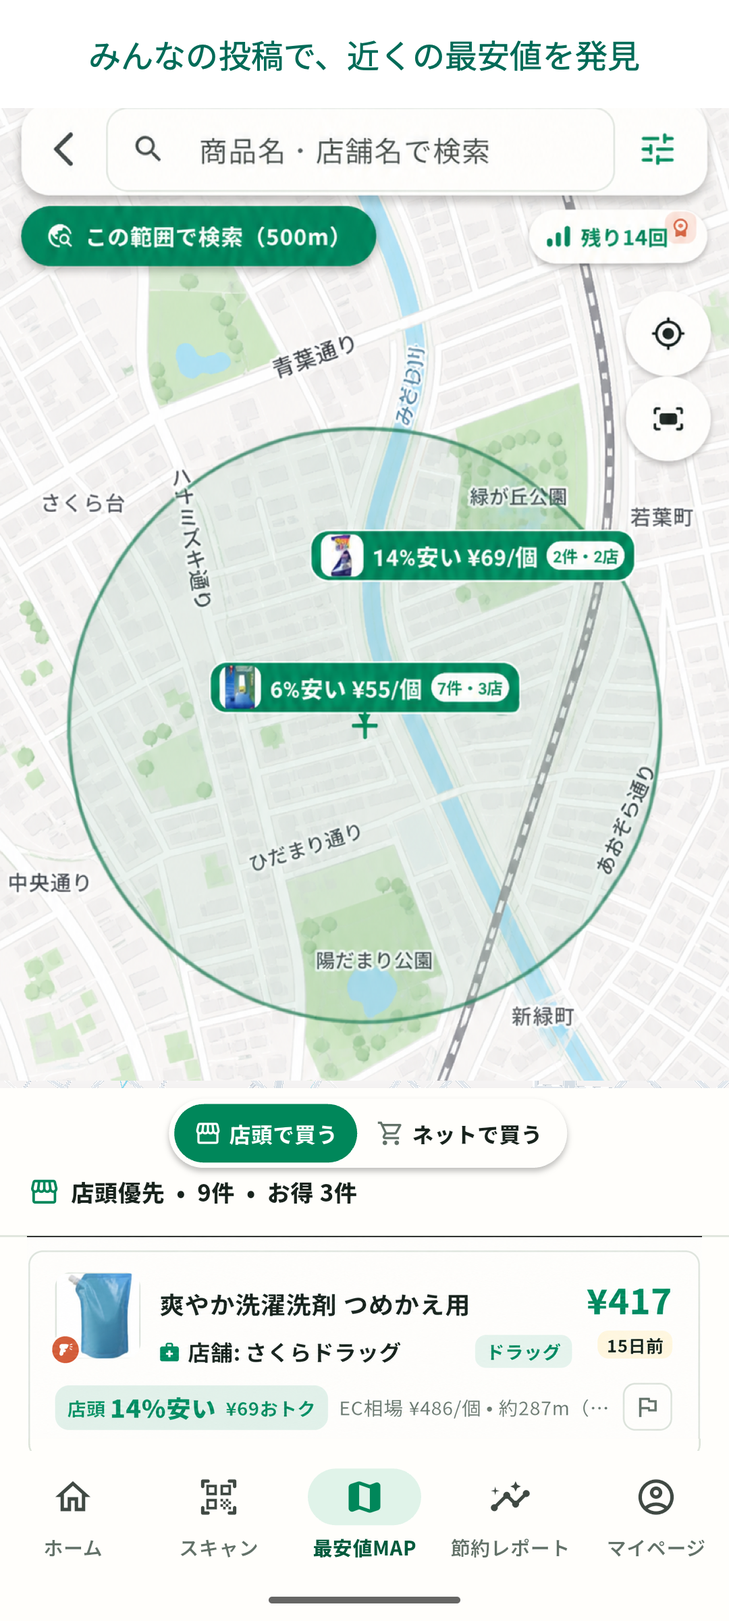
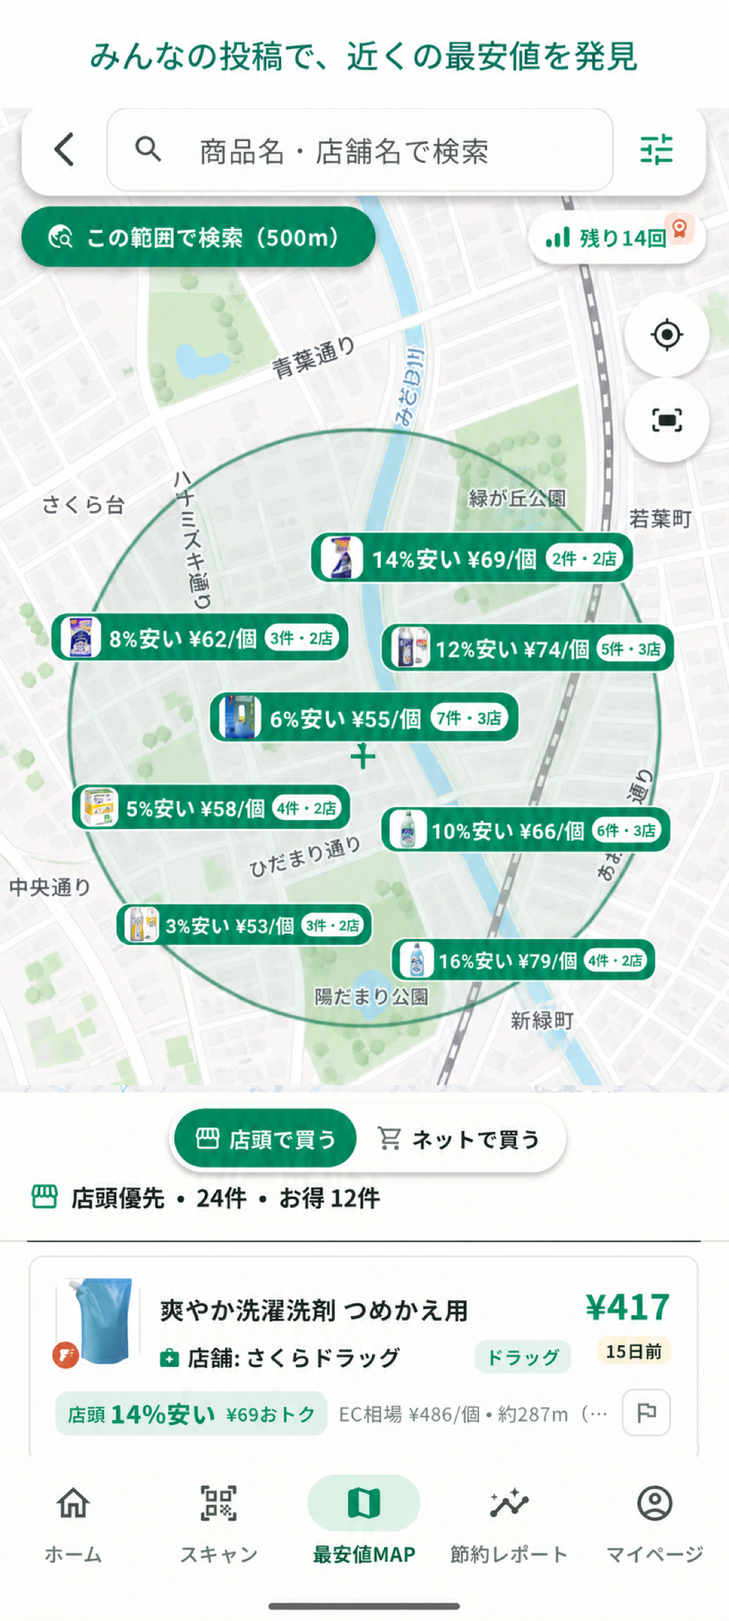
content(site): 文言トーンを統一しトップページに家族共有セクションを追加 [Claude]
直前のコミット248834bでindex.mdの本文だけを書き換えたため、同じ文言が
footer・front matter・_config.ymlに旧バージョンで残っていた。編集方針
(具体的ベネフィット/最安値・節約キーワードの明示/体言止めの排除/平易な
言葉)をサイト全体へ展開する。

取りこぼしの解消:
- footerの旧タグライン「その値段、買う前に見比べる。」を全ページで差し替え
- journeyのfigcaptionがstep01のdata-captionと不一致だった点を修正
- step05のdata-captionが旧トーンのまま残っていた点を修正
- 404のfront matter leadが本文と二重表示になっていた点を解消
- 見出しの助詞の誤り(積み重ねて)を修正

用語統一: EC→ネット、底値→最安値、読み取る→撮る・スキャン。
ECサイト(免責・仕様説明)とEC比較に適さない商品は従来どおり据え置き。
免責文言は用語置換のみで内容・強度は変更していない。

「完全匿名」「完全に匿名」はprivacy.mdの記述(公開価格レコードにユーザー
IDを含めない/位置は約100m単位に丸める)に対して強すぎるため、「価格だけを
共有、投稿者は非公開」「共有されるのは価格だけ」へ修正。

家族共有セクションは節約レポートと最安値MAPの間に新設し、共有範囲が
自分→家族→みんなと広がる構成にした。既存のsplit-featureグリッドを再利用し
CSSは2行追加のみ、JSは変更なし。

差し替わったfamily-sharing.pngが1080x2400になっていたため、index.mdと
features.mdの寸法宣言を更新。新しい画像に「家族でシェアしてみんなでお得」が
焼き込まれており見出しと重複するため、セクション見出しは「家族の節約を
ひとつにまとめる」とした。

法務文書(privacy/terms/tokushoho)の本文は対象外。
未追跡のfamily-sharing-raw.pngはどのページからも参照していないため
コミットに含めていない。

diff --git a/assets/css/main.css b/assets/css/main.css
@@ -1849,6 +1849,8 @@ em { color: var(--color-primary); font-style: normal; }
 .savings-feature__line i:nth-child(1) { left: 0; }.savings-feature__line i:nth-child(2) { left: 25%; top: 24px; }.savings-feature__line i:nth-child(3) { left: 49%; top: 34px; }.savings-feature__line i:nth-child(4) { right: 0; top: 5px; background: var(--color-secondary); }
 .split-feature--community .map-art { width: min(100%, 350px); justify-self: center; border-width: 8px; border-radius: 30px; }
 .split-feature--community .map-art img { height: auto; }
+.split-feature--family .family-art { margin: 0; overflow: hidden; width: min(100%, 350px); justify-self: center; border: 8px solid rgba(255, 255, 255, .72); border-radius: 30px; background: #eaf5ef; box-shadow: var(--shadow-lg); }
+.split-feature--family .family-art img { width: 100%; height: auto; }
 .trust-section { background: #f6faf7; }
 .trust-section .section-heading h2 { font-size: clamp(2.2rem, 4vw, 3.5rem); letter-spacing: -.05em; }
 .release-section { background: linear-gradient(135deg, var(--color-primary-dark), var(--color-primary)); }

diff --git a/_includes/footer.html b/_includes/footer.html
@@ -5,8 +5,8 @@
         <span class="brand__mark" aria-hidden="true"><span>ト</span><i></i></span>
         <span class="brand__name">トクミル</span>
       </a>
-      <p class="site-footer__copy">その値段、買う前に見比べる。</p>
-      <a class="footer-origin-link" href="{{ "/#journey" | relative_url }}">撮る・比べる・記録する <span aria-hidden="true">↗</span></a>
+      <p class="site-footer__copy">本当の最安値を簡単比較</p>
+      <a class="footer-origin-link" href="{{ "/#journey" | relative_url }}">撮る・比べる・節約する <span aria-hidden="true">↗</span></a>
     </div>
     <nav class="footer-nav" aria-label="フッターナビゲーション">
       <div>

diff --git a/_includes/header.html b/_includes/header.html
@@ -9,7 +9,7 @@
       <a href="{{ "/features.html" | relative_url }}">できること</a>
       <a href="{{ "/support.html" | relative_url }}">サポート</a>
       <a href="{{ "/legal.html" | relative_url }}">法的情報</a>
-      <a class="desktop-nav__cta" href="{{ "/#journey" | relative_url }}">使い方を見る <span aria-hidden="true">↗</span></a>
+      <a class="desktop-nav__cta" href="{{ "/#journey" | relative_url }}">使い方を体験する <span aria-hidden="true">↗</span></a>
     </nav>
 
     <details class="mobile-nav">

diff --git a/_includes/head.html b/_includes/head.html
@@ -35,7 +35,7 @@
   "@type": "SoftwareApplication",
   "name": "トクミル",
   "applicationCategory": "ShoppingApplication",
-  "operatingSystem": "Android",
+  "operatingSystem": "Android, iOS",
   "description": {{ site.description | jsonify }},
   "url": {{ site.url | append: site.baseurl | append: "/" | jsonify }}
 }

diff --git a/404.html b/404.html
@@ -2,7 +2,6 @@
 layout: page
 title: ページが見つかりません
 eyebrow: 404
-lead: URLが変更されたか、ページが削除された可能性があります。
 permalink: /404.html
 ---
 

diff --git a/index.md b/index.md
@@ -1,6 +1,6 @@
 ---
 title: トクミル
-description: バーコードと値札からEC・店頭価格を比べ、買い物の選択と節約の積み重ねを助ける価格比較アプリ「トクミル」
+description: 商品と値札を撮るだけで、店頭とネットの最安値を簡単比較。節約の成果を記録できる節約アプリ「トクミル」
 permalink: /
 body_class: home
 image: /assets/images/store/feature-graphic/tokumiru-feature-graphic.png
@@ -13,10 +13,10 @@ image: /assets/images/store/feature-graphic/tokumiru-feature-graphic.png
         <img src="{{ "/assets/images/store/app-icon/tokumiru-app-icon.png" | relative_url }}" width="1254" height="1254" alt="" fetchpriority="high" decoding="async">
         <span><strong>トクミル</strong></span>
       </div>
-      <p class="eyebrow">Compare · Choose · Remember</p>
+      <p class="eyebrow">Scan · Compare · Save</p>
       <h1 id="hero-title">みんなで得する<br>節約アプリ</h1>
       <p class="hero__tagline">本当の最安値を簡単比較</p>
-      <p class="hero__description">商品と値札を読み取り、店頭とネットの最安値を簡単比較。節約の成果をわかりやすく記録。</p>
+      <p class="hero__description">商品と値札を撮るだけで、店頭とネットの最安値を簡単比較。節約の成果をわかりやすく記録。</p>
       <div class="hero__actions">
         <a class="button" href="#journey">使い方を体験する <span aria-hidden="true">↓</span></a>
         <a class="button button--secondary" href="{{ "/features.html" | relative_url }}">できることを見る <span aria-hidden="true">↗</span></a>
@@ -45,7 +45,7 @@ image: /assets/images/store/feature-graphic/tokumiru-feature-graphic.png
   <div class="content-shell">
     <header class="section-heading section-heading--center reveal">
       <p class="eyebrow">Better together</p>
-      <h2>毎日の節約の積み重ねて<br><em>節約の成果</em>を実感できる。</h2>
+      <h2>毎日の節約を積み重ねて<br><em>節約の成果</em>を実感できる。</h2>
       <p>トクミルは日々の買い物をもっとお得にするための節約アプリです。自分の節約が、みんなのお得にも役立ちます。</p>
     </header>
     <div class="community-loop community-loop--modern">
@@ -60,7 +60,7 @@ image: /assets/images/store/feature-graphic/tokumiru-feature-graphic.png
   <div class="content-shell">
     <header class="section-heading journey-heading reveal">
       <div><p class="eyebrow">A little less guesswork</p><h2>いつもの買い物で<br><em>比べて得する</em></h2></div>
-      <p>スクロールに合わせて画面が切り替わります。読み取りから記録まで、5つの画面で紹介します。</p>
+      <p>スクロールに合わせて画面が切り替わります。撮影から記録まで、5つの画面で紹介します。</p>
     </header>
     <div class="journey-layout">
       <div class="journey-stage" data-journey-stage>
@@ -68,7 +68,7 @@ image: /assets/images/store/feature-graphic/tokumiru-feature-graphic.png
         <figure class="journey-stage__screen">
           <div class="journey-stage__screen-glow" aria-hidden="true"></div>
           <img data-journey-stage-image src="{{ "/assets/images/store/screenshots/home.png" | relative_url }}" width="1080" height="2400" loading="eager" decoding="async" alt="トクミルのホーム画面">
-          <figcaption data-journey-stage-caption>ホームから、いつもの買い物を始める</figcaption>
+          <figcaption data-journey-stage-caption>店頭で購入したい商品を撮影</figcaption>
         </figure>
         <div class="journey-stage__footer"><span data-journey-stage-count>01 / 05</span><span>スクロールで切り替わります</span></div>
       </div>
@@ -78,18 +78,18 @@ image: /assets/images/store/feature-graphic/tokumiru-feature-graphic.png
           <img src="{{ "/assets/images/store/screenshots/home.png" | relative_url }}" width="1080" height="2400" loading="lazy" alt="トクミルのホーム画面">
         </article>
         <article class="journey-step reveal" data-journey-step data-image="{{ "/assets/images/store/screenshots/price-comparison.png" | relative_url }}" data-alt="トクミルの価格比較画面" data-caption="店頭価格とネット価格を比べる" data-count="02 / 05">
-          <span class="journey-step__number">02</span><div><p class="journey-step__label">COMPARE</p><h3>店頭価格とネット価格を比べる</h3><p>総額だけでなく、送料・内容量・個数まで確認。同じ条件に揃えてから、どちらが安いかを判断できます。</p></div>
+          <span class="journey-step__number">02</span><div><p class="journey-step__label">COMPARE</p><h3>店頭価格とネット価格を比べる</h3><p>送料・内容量・個数まで含めて、同じ条件に揃えて比較。本当に安いのはどちらかがわかります。</p></div>
           <img src="{{ "/assets/images/store/screenshots/price-comparison.png" | relative_url }}" width="1080" height="2400" loading="lazy" alt="トクミルの価格比較画面">
         </article>
         <article class="journey-step reveal" data-journey-step data-image="{{ "/assets/images/store/screenshots/buying-time-note.png" | relative_url }}" data-alt="トクミルの買い時ノート画面" data-caption="自分の買い時を見つける" data-count="03 / 05">
-          <span class="journey-step__number">03</span><div><p class="journey-step__label">REMEMBER</p><h3>自分の買い時を見つける</h3><p>いつもの商品を、前にいくらで買ったか。買い時ノートが、自分だけの底値の記録になります。</p></div>
+          <span class="journey-step__number">03</span><div><p class="journey-step__label">REMEMBER</p><h3>自分の買い時を見つける</h3><p>いつもの商品を前にいくらで買ったか、買い時ノートに記録。自分だけの最安値がひと目でわかります。</p></div>
           <img src="{{ "/assets/images/store/screenshots/buying-time-note.png" | relative_url }}" width="1080" height="2400" loading="lazy" alt="トクミルの買い時ノート画面">
         </article>
         <article class="journey-step reveal" data-journey-step data-image="{{ "/assets/images/store/screenshots/savings-report.png" | relative_url }}" data-alt="トクミルの節約レポート画面" data-caption="節約の成果を振り返る" data-count="04 / 05">
           <span class="journey-step__number">04</span><div><p class="journey-step__label">REVIEW</p><h3>節約の成果を振り返る</h3><p>日々の節約の積み重ねを、月ごと・年ごとの節約レポートで確認。節約の結果が金額でわかる。</p></div>
           <img src="{{ "/assets/images/store/screenshots/savings-report.png" | relative_url }}" width="1080" height="2400" loading="lazy" alt="トクミルの節約レポート画面">
         </article>
-        <article class="journey-step reveal" data-journey-step data-image="{{ "/assets/images/store/screenshots/lowest-price-map.png" | relative_url }}" data-alt="トクミルの最安値MAP画面" data-caption="近くの価格を、次の買い物のヒントにする" data-count="05 / 05">
+        <article class="journey-step reveal" data-journey-step data-image="{{ "/assets/images/store/screenshots/lowest-price-map.png" | relative_url }}" data-alt="トクミルの最安値MAP画面" data-caption="近くの最安値をチェック" data-count="05 / 05">
           <span class="journey-step__number">05</span><div><p class="journey-step__label">MAP</p><h3>近くの最安値を探す</h3><p>みんなの投稿から、近くの価格を比較できます。おうちに居てもお得な情報をゲット。</p></div>
           <img src="{{ "/assets/images/store/screenshots/lowest-price-map.png" | relative_url }}" width="1080" height="2400" loading="lazy" alt="トクミルの最安値MAP画面">
         </article>
@@ -105,15 +105,22 @@ image: /assets/images/store/feature-graphic/tokumiru-feature-graphic.png
   </div>
 </section>
 
+<section class="section family-section" aria-labelledby="family-title">
+  <div class="content-shell split-feature split-feature--family">
+    <div class="split-feature__copy reveal"><p class="eyebrow">Family sharing</p><h2 id="family-title">家族の節約を<br><em>ひとつにまとめる</em></h2><p>招待コードで家族グループに参加すると、買い物リストと節約記録を家族で共有。だれがいくら節約したか、メンバーごとにわかります。</p><ul class="feature-points"><li>招待コードで参加</li><li>買い物リストを共有</li><li>メンバーごとの節約額がわかる</li></ul><a class="text-link" href="{{ "/features.html" | relative_url }}#share">家族共有の詳細を見る <span aria-hidden="true">↗</span></a></div>
+    <figure class="family-art reveal"><img src="{{ "/assets/images/store/screenshots/family-sharing.png" | relative_url }}" width="1080" height="2400" loading="lazy" alt="パパ・ママ・わたしの節約額をメンバーごとに確認できるトクミルの家族レポート画面"></figure>
+  </div>
+</section>
+
 <section class="section section--map community-section">
   <div class="content-shell split-feature split-feature--community">
-    <div class="split-feature__copy reveal"><p class="eyebrow">Lowest price map · beta</p><h2>みんなの投稿から<br><em>周辺地域の最安値</em>を共有。</h2><p>値札を読み取ったときに記録された価格を、地図と一覧で確認。自分の節約が、みんなの次の買い物にも役立ちます。</p><ul class="feature-points"><li>完全匿名</li><li>位置情報の利用は任意</li><li>地域や時期によって情報が少ない場合があります</li></ul></div>
+    <div class="split-feature__copy reveal"><p class="eyebrow">Lowest price map · beta</p><h2>みんなの投稿から<br><em>周辺地域の最安値</em>を共有。</h2><p>値札をスキャンしたときに記録された価格を、地図と一覧で確認。自分の節約が、みんなの次の買い物にも役立ちます。</p><ul class="feature-points"><li>価格だけを共有、投稿者は非公開</li><li>位置情報の利用は任意</li><li>地域や時期によって情報が少ない場合があります</li></ul></div>
     <figure class="map-art reveal"><img src="{{ "/assets/images/store/screenshots/lowest-price-map.png" | relative_url }}" width="1080" height="2400" loading="lazy" alt="トクミルの最安値MAP画面"></figure>
   </div>
 </section>
 
 <section class="section section--trust trust-section">
-  <div class="content-shell"><header class="section-heading section-heading--center reveal"><p class="eyebrow">Designed with care</p><h2>便利さの前に、<br><em>安心できること。</em></h2><p>必要な情報だけを、必要なときにだけ使います。</p></header><div class="trust-grid reveal"><article class="trust-item"><span class="trust-item__icon" aria-hidden="true">◎</span><h3>位置情報は任意</h3><p>近くの価格を使うときだけ許可を求めます。</p></article><article class="trust-item"><span class="trust-item__icon" aria-hidden="true">◇</span><h3>完全に匿名</h3><p>公開する価格情報に、投稿した人の情報は含めません。</p></article><article class="trust-item"><span class="trust-item__icon" aria-hidden="true">↘</span><h3>いつでも削除</h3><p>アカウントと関連データを、まとめて削除できます。</p></article></div></div>
+  <div class="content-shell"><header class="section-heading section-heading--center reveal"><p class="eyebrow">Designed with care</p><h2>便利さの前に、<br><em>安心できること</em></h2><p>必要な情報だけを、必要なときにだけ使います。</p></header><div class="trust-grid reveal"><article class="trust-item"><span class="trust-item__icon" aria-hidden="true">◎</span><h3>位置情報は任意</h3><p>近くの価格を使うときだけ許可を求めます。</p></article><article class="trust-item"><span class="trust-item__icon" aria-hidden="true">◇</span><h3>共有されるのは価格だけ</h3><p>公開する価格情報に、投稿した人の情報は含めません。</p></article><article class="trust-item"><span class="trust-item__icon" aria-hidden="true">↘</span><h3>いつでも削除</h3><p>アカウントと関連データを、まとめて削除できます。</p></article></div></div>
 </section>
 
 <section class="section section--accent release-section" id="release"><div class="content-shell cta-band reveal"><div><p class="eyebrow">Coming soon</p><h2>公開に向けて、準備中です。</h2><p>ストアでの公開後、このサイトでダウンロード先をお知らせします。</p></div><a class="button button--light" href="{{ "/support.html" | relative_url }}">サポート情報を見る <span aria-hidden="true">↗</span></a></div></section>

diff --git a/features.md b/features.md
@@ -2,7 +2,7 @@
 layout: page
 title: できること
 eyebrow: Features
-lead: 商品を読み取り、価格を比べ、買い時を知る。トクミルの使い方を、画面で紹介します。
+lead: 撮って、比べて、買い時がわかる。トクミルでできることを画面で紹介します。
 hero_image: /assets/images/store/screenshots/price-comparison.png
 hero_width: 1080
 hero_height: 2400
@@ -11,28 +11,28 @@ permalink: /features.html
 ---
 
 <div class="feature-intro reveal">
-  <div><p class="eyebrow">The everyday price companion</p><h2>迷う時間を減らして、<br><em>選ぶ時間</em>を増やす。</h2></div>
-  <p>買い物中の「これ、どっちがお得？」に、読み取りから記録までひとつの流れで答えます。</p>
+  <div><p class="eyebrow">The everyday price companion</p><h2>撮って比べるだけで、<br><em>いちばん安い</em>が見つかる</h2></div>
+  <p>買い物中の「これ、どっちがお得？」に、撮影から記録までひとつの流れで答えます。</p>
 </div>
 
 <div class="feature-journey-nav" aria-label="機能一覧">
-  <a href="#scan">01 読み取る</a><a href="#compare">02 比べる</a><a href="#pricebook">03 買い時を知る</a><a href="#watch">04 値下がりを待つ</a><a href="#review">05 振り返る</a><a href="#share">06 共有する</a><a href="#map">07 探す</a>
+  <a href="#scan">01 撮る</a><a href="#compare">02 比べる</a><a href="#pricebook">03 買い時を知る</a><a href="#watch">04 値下がりを待つ</a><a href="#review">05 振り返る</a><a href="#share">06 共有する</a><a href="#map">07 探す</a>
 </div>
 
 <div class="feature-showcase feature-showcase--immersive">
   <article id="scan" class="feature-card feature-card--scan reveal">
     <div class="feature-card__visual feature-card__visual--screen"><span class="feature-card__visual-label">01 / SCAN</span><img src="{{ "/assets/images/store/screenshots/home.png" | relative_url }}" width="1080" height="2400" loading="lazy" alt="トクミルのホーム画面"></div>
-    <div class="feature-card__copy"><p class="feature-card__number">01 / SCAN</p><h2>商品と店頭価格を読み取る</h2><h3>バーコードが読めなくても、パッケージから探せる</h3><p>商品のJANコードをカメラで読み取り、値札の価格も比較に加えられます。バーコードが読み取れない商品は、パッケージ画像から候補を探せます。</p><p class="feature-card__hint">明るい場所で商品正面を枠内に収めると認識しやすくなります。読み取った内容は、確定する前に確認してください。</p></div>
+    <div class="feature-card__copy"><p class="feature-card__number">01 / SCAN</p><h2>商品と値札を撮る</h2><h3>バーコードが読めなくても、パッケージから探せる</h3><p>商品のJANコードをカメラでスキャンし、値札の価格も比較に加えられます。バーコードをスキャンできない商品は、パッケージを撮影して候補を探せます。</p><p class="feature-card__hint">明るい場所で商品正面を枠内に収めると認識しやすくなります。スキャンした内容は、確定する前に確認してください。</p></div>
   </article>
 
   <article id="compare" class="feature-card feature-card--compare reveal">
     <div class="feature-card__visual feature-card__visual--screen"><span class="feature-card__visual-label">02 / COMPARE</span><img src="{{ "/assets/images/store/screenshots/price-comparison.png" | relative_url }}" width="1080" height="2400" loading="lazy" alt="トクミルの価格比較画面"></div>
-    <div class="feature-card__copy"><p class="feature-card__number">02 / COMPARE</p><h2>価格を比べる</h2><h3>ECと店頭の価格を、単価まで比べる</h3><p>楽天市場、Yahoo!ショッピングなどの結果と店頭価格を並べて比較。送料、内容量、個数、新品・中古の条件を確認しながら、単価でも判断できます。</p><p class="feature-card__hint">価格・在庫・送料は取得時点の参考情報です。購入前に販売元の最新情報を確認してください。</p></div>
+    <div class="feature-card__copy"><p class="feature-card__number">02 / COMPARE</p><h2>本当の最安値を比べる</h2><h3>ネットと店頭の価格を、単価まで比べる</h3><p>楽天市場、Yahoo!ショッピングなどの結果と店頭価格を並べて比較。送料、内容量、個数、新品・中古の条件を確認しながら、単価でも判断できます。</p><p class="feature-card__hint">価格・在庫・送料は取得時点の参考情報です。購入前に販売元の最新情報を確認してください。</p></div>
   </article>
 
   <article id="pricebook" class="feature-card feature-card--pricebook reveal">
     <div class="feature-card__visual feature-card__visual--screen"><span class="feature-card__visual-label">03 / PRICE BOOK</span><img src="{{ "/assets/images/store/screenshots/buying-time-note.png" | relative_url }}" width="1080" height="2400" loading="lazy" alt="トクミルの買い時ノート画面"></div>
-    <div class="feature-card__copy"><p class="feature-card__number">03 / PRICE BOOK</p><h2>買い時を見つける</h2><h3>自分の底値と、まわりの相場をあわせて見る</h3><p>購入記録から、自分がこれまでで一番安く買えた価格を確認できます。記録が集まっている商品では、価格の推移と買い時の目安も表示されます。</p><p class="feature-card__hint">価格の推移を見るには、記録の蓄積が必要です。地域や商品によって表示内容が異なります。</p></div>
+    <div class="feature-card__copy"><p class="feature-card__number">03 / PRICE BOOK</p><h2>買い時を見つける</h2><h3>自分の最安値と、まわりの相場をあわせて見る</h3><p>購入記録から、自分がこれまでで一番安く買えた最安値を確認できます。記録が集まっている商品では、価格の推移と買い時の目安も表示されます。</p><p class="feature-card__hint">価格の推移を見るには、記録の蓄積が必要です。地域や商品によって表示内容が異なります。</p></div>
   </article>
 
   <article id="watch" class="feature-card feature-card--organize reveal">
@@ -46,13 +46,13 @@ permalink: /features.html
   </article>
 
   <article id="share" class="feature-card feature-card--family reveal">
-    <div class="feature-card__visual feature-card__visual--screen"><span class="feature-card__visual-label">06 / SHARE</span><img src="{{ "/assets/images/store/screenshots/family-sharing.png" | relative_url }}" width="842" height="1869" loading="lazy" alt="パパとママとわたしの節約を確認できる家族レポート画面"></div>
+    <div class="feature-card__visual feature-card__visual--screen"><span class="feature-card__visual-label">06 / SHARE</span><img src="{{ "/assets/images/store/screenshots/family-sharing.png" | relative_url }}" width="1080" height="2400" loading="lazy" alt="パパとママとわたしの節約を確認できる家族レポート画面"></div>
     <div class="feature-card__copy"><p class="feature-card__number">06 / SHARE</p><h2>家族で共有する</h2><h3>買い物リストも節約記録も、家族みんなで</h3><p>招待コードで家族グループに参加すると、買い物リストや節約記録を家族で共有できます。だれがいくら節約したかも、メンバーごとに確認できます。</p><p class="feature-card__hint">共有する情報と保存期間は<a href="{{ "/privacy.html" | relative_url }}">プライバシーポリシー</a>で確認できます。</p></div>
   </article>
 
   <article id="map" class="feature-card feature-card--map reveal">
     <div class="feature-card__visual feature-card__visual--screen"><span class="feature-card__visual-label">07 / MAP BETA</span><img src="{{ "/assets/images/store/screenshots/lowest-price-map.png" | relative_url }}" width="1080" height="2400" loading="lazy" alt="トクミルの最安値MAP画面"></div>
-    <div class="feature-card__copy"><p class="feature-card__number">07 / MAP BETA</p><h2>近くの最安値を探す</h2><h3>地図で見比べて、行くお店を決める</h3><p>値札を読み取ったときに記録された周辺のお店の価格を、地図と一覧で確認。近くの価格を見比べて、行くお店を選べます。</p><p class="feature-card__hint">ベータ版の機能です。位置情報の利用は任意で、地域によってはデータが少なく表示されない場合があります。</p></div>
+    <div class="feature-card__copy"><p class="feature-card__number">07 / MAP BETA</p><h2>近くの最安値を探す</h2><h3>地図で見比べて、行くお店を決める</h3><p>値札をスキャンしたときに記録された周辺のお店の価格を、地図と一覧で確認。近くの価格を見比べて、行くお店を選べます。</p><p class="feature-card__hint">ベータ版の機能です。位置情報の利用は任意で、地域によってはデータが少なく表示されない場合があります。</p></div>
   </article>
 </div>
 

diff --git a/support.md b/support.md
@@ -23,7 +23,7 @@ permalink: /support.html
   </details>
   <details>
     <summary>位置情報を許可しなくても使えますか？</summary>
-    <div>使えます。商品検索とEC価格比較には位置情報は不要です。近隣店舗候補や地域価格を利用するときだけ許可を求めます。</div>
+    <div>使えます。商品検索とネット価格比較には位置情報は不要です。近隣店舗候補や地域価格を利用するときだけ許可を求めます。</div>
   </details>
   <details>
     <summary>機種変更してもデータを引き継げますか？</summary>
